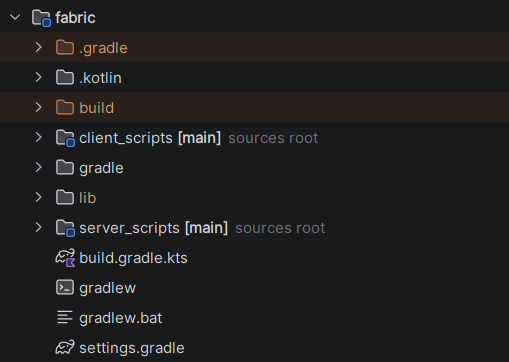
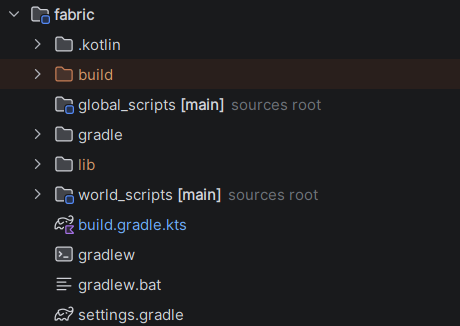
qwq

Changed region(s): [[0.0609, 0.0, 0.7, 0.9202], [0.0913, 0.9202, 0.3957, 1.0], [0.0, 0.0307, 0.0304, 0.0613]]

diff --git a/src/quickstart/get-started.md b/src/quickstart/get-started.md
@@ -14,12 +14,10 @@ Although we call it "Kotlin Scripts", they are actually normal kotlin files endi
 
 | Folder | Purpose |
 |---|---|
-| `server_scripts/` | Server-side scripts (hot-reloadable) |
-| `client_scripts/` | Client-side scripts (hot-reloadable) |
-| `global_server_scripts/` | Server scripts loaded once at startup (no hot reload) |
-| `global_client_scripts/` | Client scripts loaded once at startup (no hot reload) |
+| `world_scripts/` | World-specific scripts (hot-reloadable) |
+| `global_scripts/` | Scripts loaded once at startup (no hot reload) |
 
-To make things simple, we'll only use `server_scripts/` in this tutorial.
+To make things simple, we'll only use `world_scripts/` in this tutorial.
 
 <ImageCaptionZoom
    src="/docimg/1.png"
@@ -30,7 +28,7 @@ To make things simple, we'll only use `server_scripts/` in this tutorial.
 
 Before we start, we need to include Minecraft source code in our project for IDE code completion. The easiest way is to open the `versions` folder in your Minecraft game directory, find the correct version folder, and copy the jar file inside into the `lib/` folder of the example project. For example, if you're using Minecraft 26.1-Fabric, go to the `26.1-Fabric` folder and copy its jar to `lib/`. This gives us server-side source code — client-side source code isn't needed for this tutorial.
 
-As your first script, we'll send a "Hello Katton" message to the player when they join the game. Create a new file named `hello.kt` in the `server_scripts/` directory with the following content:
+As your first script, we'll send a "Hello Katton" message to the player when they join the game. Create a new file named `hello.kt` in the `world_scripts/` directory with the following content:
 
 <!--@include: ../example/quickstart/get-started/01.md-->
 
@@ -59,16 +57,13 @@ Open `build.gradle.kts` and set the target directories:
 
 ```kt
 // In this tutorial we only use server scripts, so set the others to null
-val clientScriptsTargetDir: File? = null
-val serverScriptsTargetDir: File? = file("path\\to\\saves\\<world>\\kattonpacks\\my_first_pack")
-val gClientScriptsTargetDir: File? = null
-val gServerScriptsTargetDir: File? = null
+val worldScriptsTargetDir: List<File> = listOf(
+   file("/path/to/your/world/kattonpacks/my_first_pack/")
+)
+val globalScriptsTargetDir: List<File> = listOf()
 ```
 
 Make sure to replace the path with the actual path to your world save. Then click the Gradle button on the right side of IntelliJ IDEA (the elephant icon!), find the `copyGameScripts` task, and run it. Your scripts now appear inside your pack as hard links.
-
-> [!TIP]
-> **What about datapack paths?** If you prefer the older approach, you can still target a datapack path like `data/<ns>/scripts/` — Katton scans those too. But `kattonpacks/` gives you manifest support, the in-game pack UI, and a cleaner workflow. It's the recommended way going forward.
 
 <ImageCaptionZoom
    src="/docimg/image-3.png"